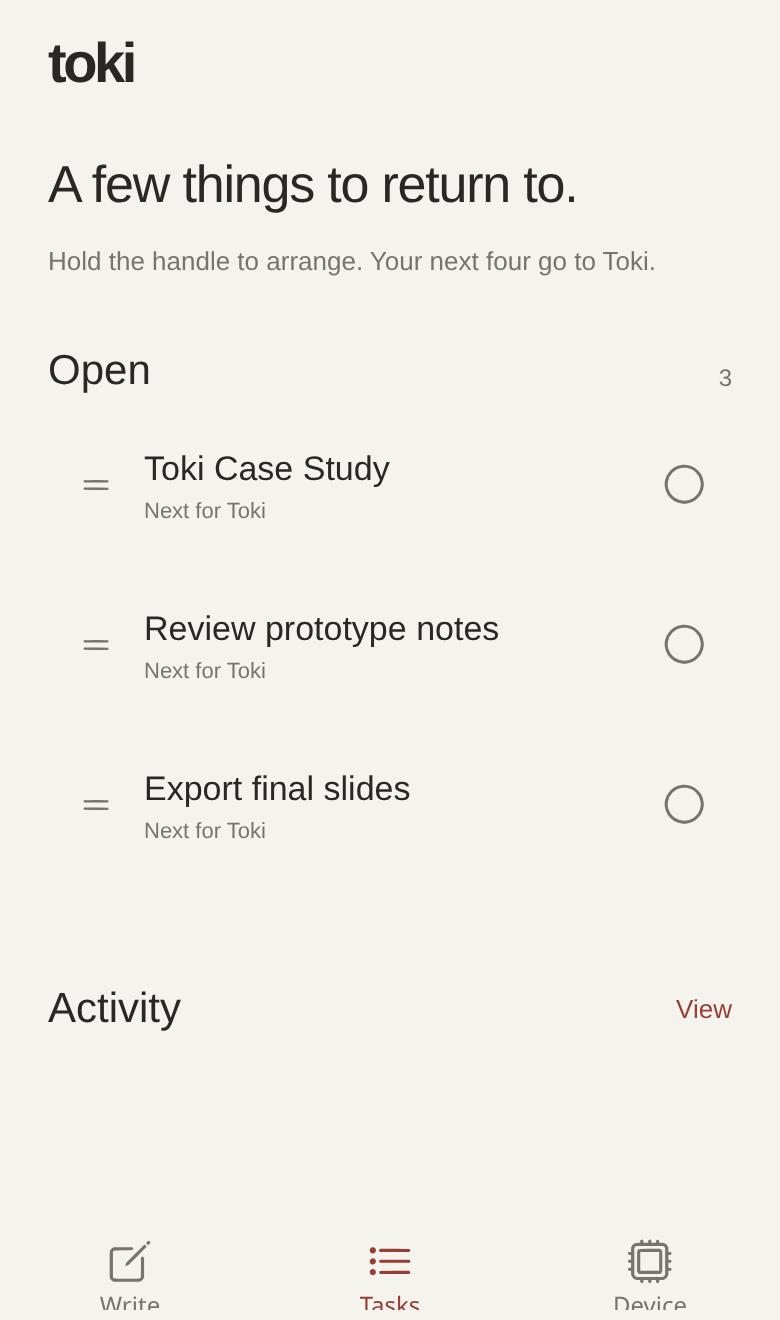
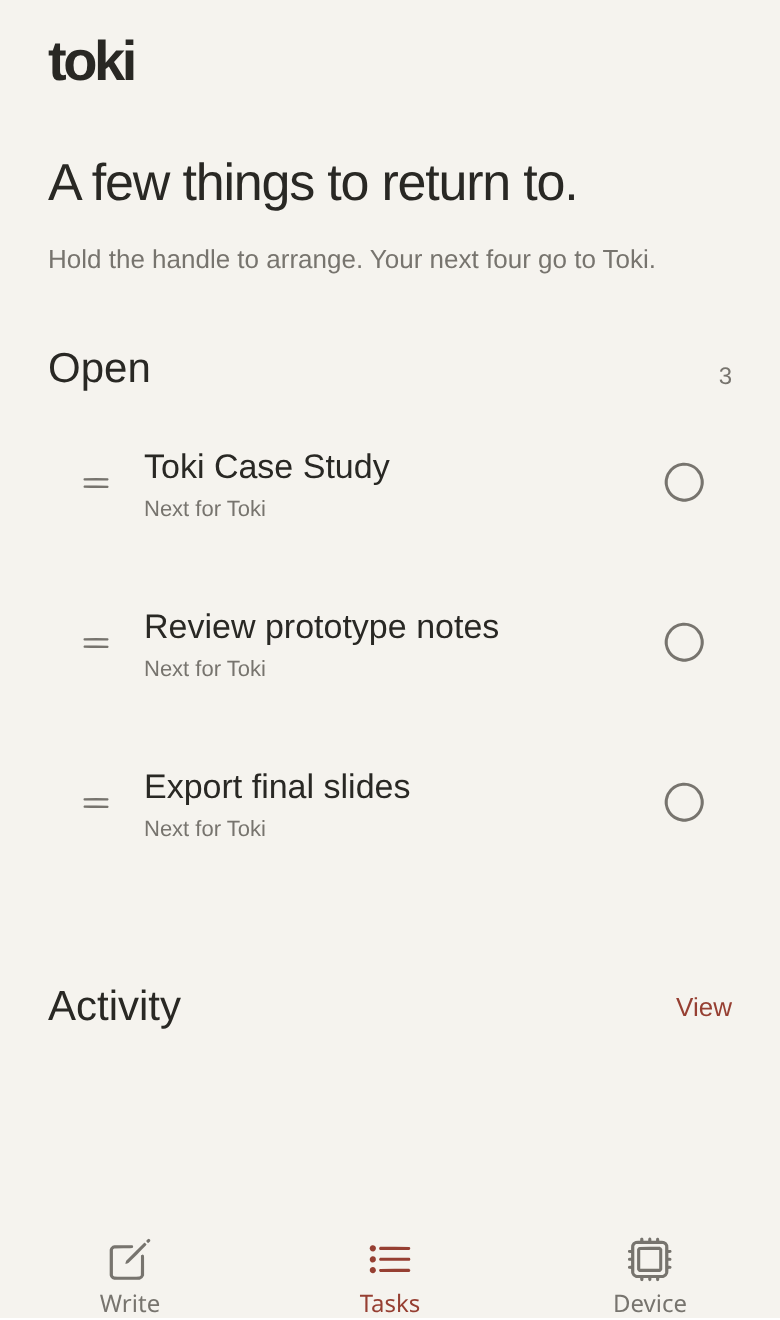
Capture complete labels in Toki app screenshots

diff --git a/data/projects.ts b/data/projects.ts
@@ -435,14 +435,14 @@ export const mainProjects: Project[] = [
               "alt": "Toki Write screen with Toki Case Study in the writing area and the Add to Tasks button below it",
               "width": 780,
               "height": 1320,
-              "caption": "Captured from the running Expo web build of AnujR17/toki at b032909. Native Bluetooth and reminder services were unavailable in the browser."
+              "caption": "Captured from the running Expo web build of AnujR17/toki at b032909. The capture used browser-only adapters for native services and corrected Web tab-label clipping."
             },
             {
               "src": "/portfolio/toki/app-tasks.png",
               "alt": "Toki Tasks screen with Toki Case Study at the top of the queue, followed by two other example tasks",
               "width": 780,
               "height": 1320,
-              "caption": "Captured from the running Expo web build of AnujR17/toki at b032909 after creating three example tasks through Write."
+              "caption": "Captured from the same Expo web build after creating three example tasks through Write."
             }
           ]
         },
